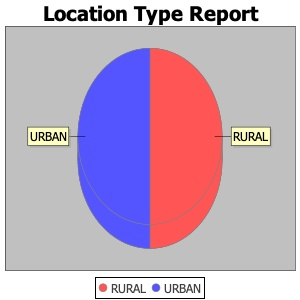
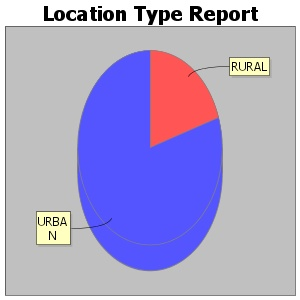
implemented GUI report generation feature using third party dependency

diff --git a/src/main/resources/templates/report.html b/src/main/resources/templates/report.html
@@ -1,0 +1,10 @@
+<!DOCTYPE html PUBLIC "-//W3C//DTD HTML 4.01 Transitional//EN" "http://www.w3.org/TR/html4/loose.dtd">
+<html xmlns:th="http://www.thymeleaf.org">
+<head>
+<meta http-equiv="Content-Type" content="text/html; charset=UTF-8">
+<title>Report</title>
+</head>
+<body>
+	<img src="pieChart.jpeg" />
+</body>
+</html>

diff --git a/src/main/java/com/sawan/location/controllers/LocationController.java b/src/main/java/com/sawan/location/controllers/LocationController.java
@@ -2,6 +2,8 @@ package com.sawan.location.controllers;
 
 import java.util.List;
 
+import javax.servlet.ServletContext;
+
 import org.springframework.beans.factory.annotation.Autowired;
 import org.springframework.stereotype.Controller;
 import org.springframework.ui.ModelMap;
@@ -10,8 +12,10 @@ import org.springframework.web.bind.annotation.RequestMapping;
 import org.springframework.web.bind.annotation.RequestParam;
 
 import com.sawan.location.entities.Location;
+import com.sawan.location.repos.LocationRepository;
 import com.sawan.location.service.LocationService;
 import com.sawan.location.util.EmailUtil;
+import com.sawan.location.util.ReportUtil;
 
 @Controller
 public class LocationController {
@@ -21,6 +25,15 @@ public class LocationController {
 
 	@Autowired
 	private EmailUtil emailUtil;
+
+	@Autowired
+	private LocationRepository repository;
+
+	@Autowired
+	private ReportUtil reportUtil;
+
+	@Autowired
+	private ServletContext context;
 
 	@RequestMapping("/showCreate")
 	public String showCreate() {
@@ -72,6 +85,14 @@ public class LocationController {
 		List<Location> locations = service.getAllLocations();
 		modelMap.addAttribute("locations", locations);
 		return "displayLocations";
+	}
+
+	@RequestMapping("/generateReport")
+	public String generateReport() {
+		String path = context.getRealPath("/");
+		List<Object[]> data = repository.findTypeAndTypeCount();
+		reportUtil.generatePieChart(path, data);
+		return "report";
 	}
 
 }

diff --git a/src/main/java/com/sawan/location/util/ReportUtilImpl.java b/src/main/java/com/sawan/location/util/ReportUtilImpl.java
@@ -1,0 +1,33 @@
+package com.sawan.location.util;
+
+import java.io.File;
+import java.io.IOException;
+import java.util.List;
+
+import org.jfree.chart.ChartFactory;
+import org.jfree.chart.ChartUtilities;
+import org.jfree.chart.JFreeChart;
+import org.jfree.data.general.DefaultPieDataset;
+import org.springframework.stereotype.Component;
+
+@Component
+public class ReportUtilImpl implements ReportUtil {
+
+	@Override
+	public void generatePieChart(String path, List<Object[]> data) {
+		DefaultPieDataset dataset = new DefaultPieDataset();
+
+		for (Object[] objects : data) {
+			dataset.setValue(objects[0].toString(), new Double(objects[1].toString()));
+		}
+
+		JFreeChart chart = ChartFactory.createPieChart3D("Location Type Report", dataset, false, false, false);
+
+		try {
+			ChartUtilities.saveChartAsJPEG(new File(path + "/pieChart.jpeg"), chart, 300, 300);
+		} catch (IOException e) {
+			e.printStackTrace();
+		}
+	}
+
+}

diff --git a/src/main/java/com/sawan/location/repos/LocationRepository.java b/src/main/java/com/sawan/location/repos/LocationRepository.java
@@ -1,9 +1,15 @@
 package com.sawan.location.repos;
 
+import java.util.List;
+
 import org.springframework.data.jpa.repository.JpaRepository;
+import org.springframework.data.jpa.repository.Query;
 
 import com.sawan.location.entities.Location;
 
 public interface LocationRepository extends JpaRepository<Location, Integer> {
+
+	@Query("select type, count(type) from Location group by type")
+	public List<Object[]> findTypeAndTypeCount();
 
 }

diff --git a/src/main/java/com/sawan/location/util/ReportUtil.java b/src/main/java/com/sawan/location/util/ReportUtil.java
@@ -1,0 +1,9 @@
+package com.sawan.location.util;
+
+import java.util.List;
+
+public interface ReportUtil {
+
+	void generatePieChart(String path, List<Object[]> data);
+
+}
